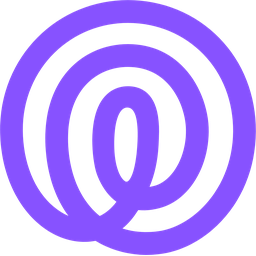
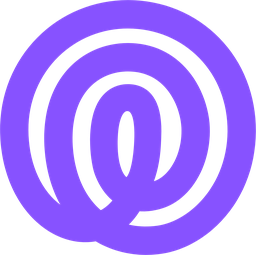
v8.4: LibreTorrent and Life360 lines thicker still
The 8.3 change was too small to see next to 8.2.

Claude-Session: https://claude.ai/code/session_011AGmuRGN7NPfvrSuXVPQ1T

diff --git a/icons/notes/org_proninyaroslav_libretorrent.md b/icons/notes/org_proninyaroslav_libretorrent.md
@@ -1,2 +1,2 @@
 Ring with branches and nodes from Lawnicons' LibreTorrent line drawing, thickened, nodes filled, purple #9C27B0 (app bg colour, R9).
-M13: ring, curves and dots thicker (R29).
+M13: ring, curves and dots about 1.5x thicker than version 8.2 (R29).
